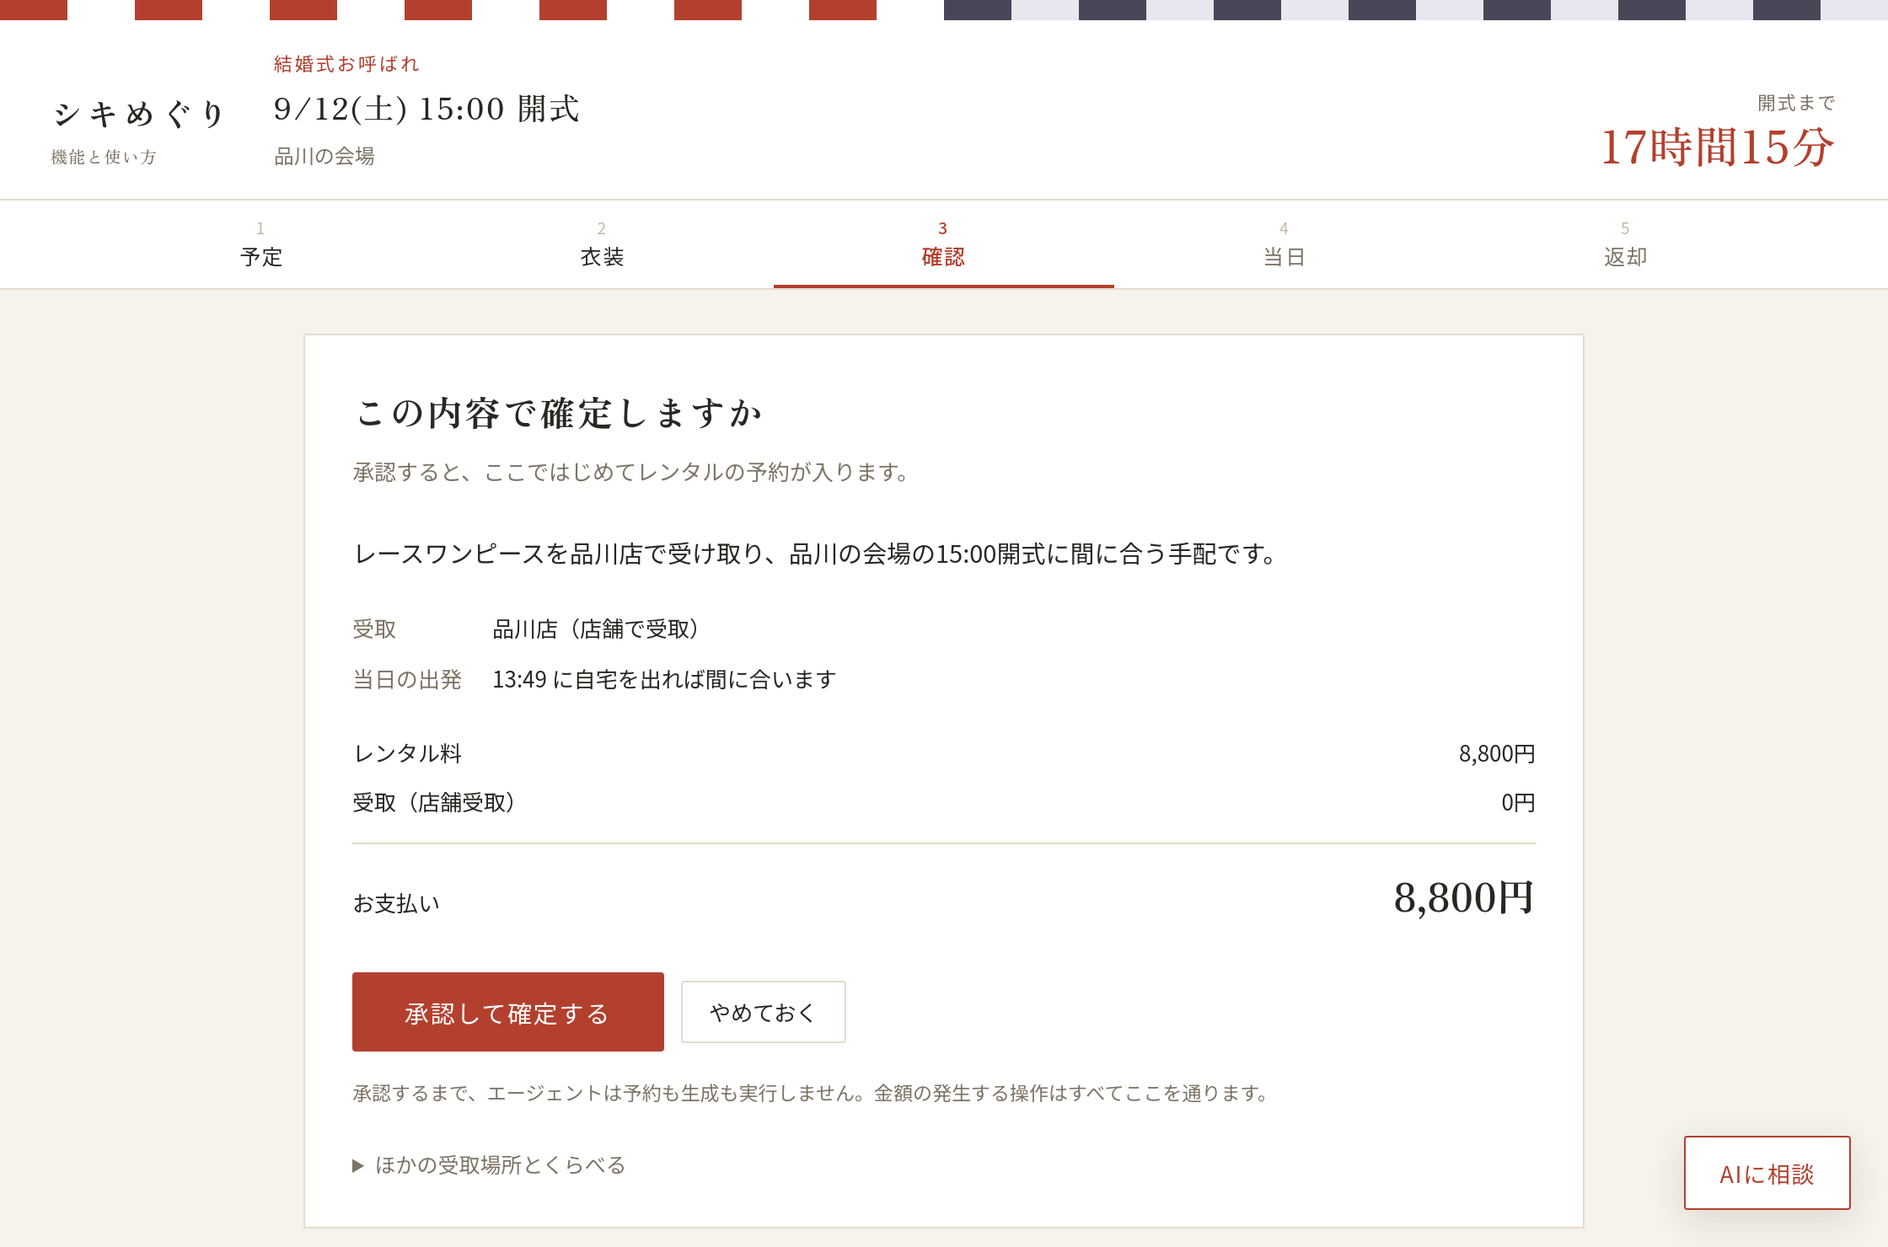
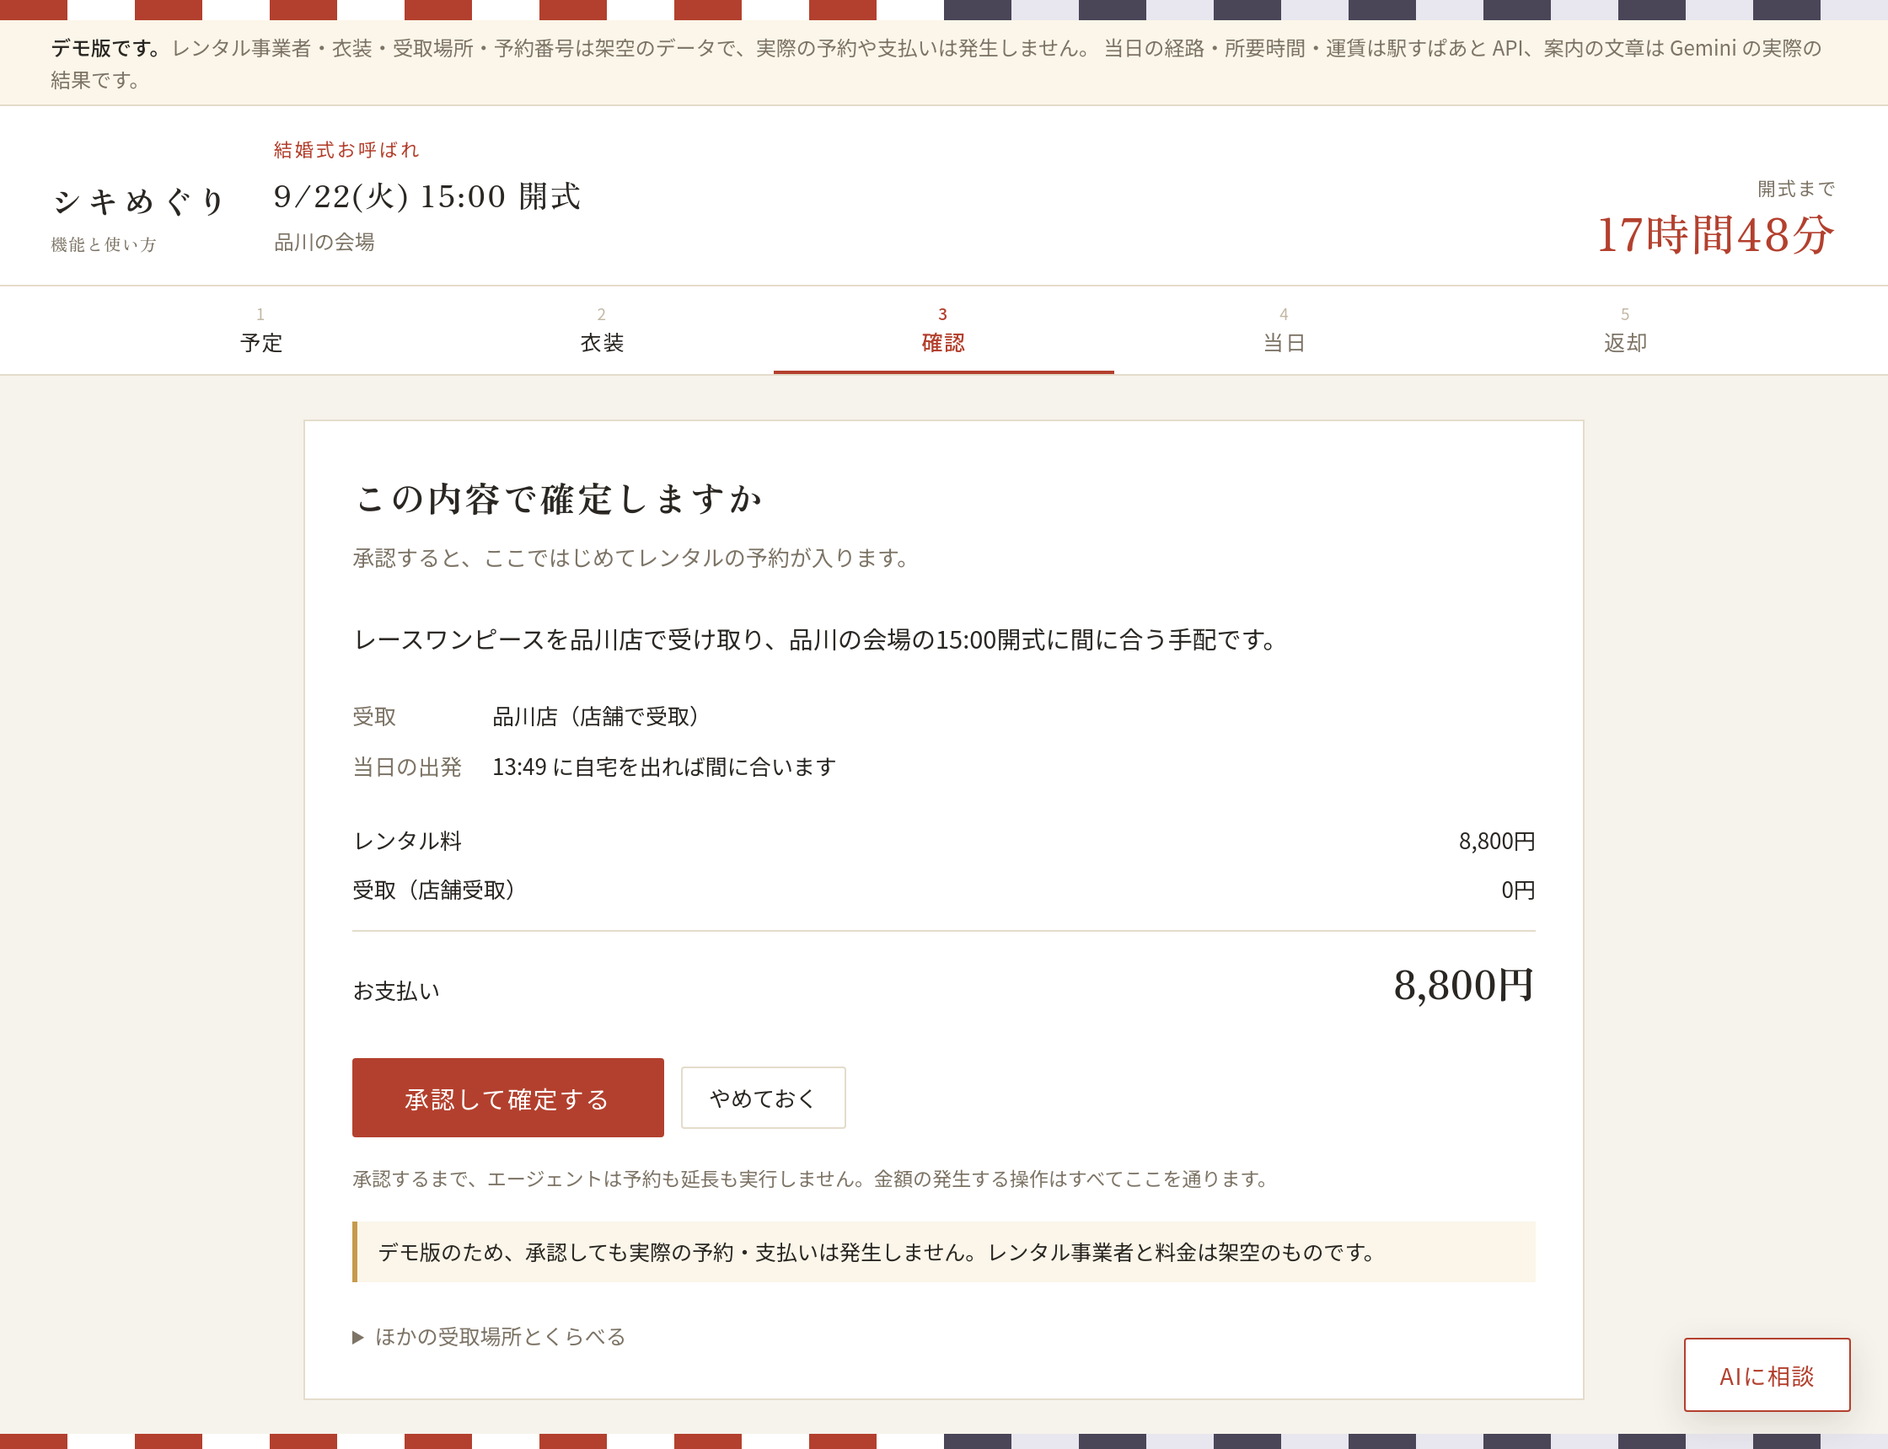
docs: CONTRIBUTING.md と README.md の内容を明確化し、デモ版の注意書きを追加

diff --git a/web/index.html b/web/index.html
@@ -53,6 +53,13 @@ h1 .kei{color:var(--kei)}
   background:var(--kei);color:#fff;transition:opacity .18s;
 }
 .cta:hover{opacity:.86}
+/* デモの断り。アプリを開く前に読める位置に置く。 */
+.demo{
+  max-width:620px;margin:22px auto 0;padding:12px 18px;text-align:left;
+  background:#fbf6e9;border:1px solid var(--line);border-left:4px solid var(--kin);
+  font-size:.82rem;line-height:1.85;color:var(--sub);
+}
+.demo b{color:var(--sumi);font-weight:500}
 
 section{padding:52px 0;border-top:1px solid var(--line)}
 h2{font-family:var(--mincho);font-size:1.5rem;font-weight:700;letter-spacing:.16em;margin-bottom:10px;display:flex;align-items:center;gap:14px}
@@ -109,6 +116,12 @@ footer{padding:40px 0;text-align:center;border-top:1px solid var(--line);color:v
   <div class="cta-row">
     <a class="cta" href="./console.html">アプリを開く</a>
   </div>
+
+  <p class="demo" role="note">
+    <b>デモ版です。</b>レンタル事業者・衣装・受取場所・予約番号は架空のデータで、
+    実際の予約や支払いは発生しません。<br />
+    当日の経路・所要時間・運賃は駅すぱあと API、案内の文章は Gemini による実際の結果です。
+  </p>
 </div></header>
 
 <section id="trouble"><div class="wrap">
@@ -147,42 +160,43 @@ footer{padding:40px 0;text-align:center;border-top:1px solid var(--line);color:v
     <div class="step"><div>
       <h3>式の予定を入れる</h3>
       <p>種別・日時・会場の最寄り駅・出発する駅を選びます。誰の式かは訊かれません。</p>
-      <div class="shot"><img src="./shots/01-plan.png" width="1120" height="1010" loading="lazy"
+      <div class="shot"><img src="./shots/01-plan.png" width="1120" height="1060" loading="lazy"
         alt="式の予定を入力するフォーム。式の種別、開式の日時、会場の最寄り駅、出発する駅を選ぶ" /></div>
     </div></div>
 
     <div class="step"><div>
       <h3>内容を確かめる</h3>
       <p>ここを間違えると当日の逆算がまるごとずれます。登録する前に一度見せます。</p>
-      <div class="shot"><img src="./shots/02-check.png" width="1120" height="640" loading="lazy"
+      <div class="shot"><img src="./shots/02-check.png" width="1120" height="690" loading="lazy"
         alt="入力した予定の確認画面。種別・開式・会場・出発する駅が並び、この予定で始めるボタンがある" /></div>
     </div></div>
 
     <div class="step"><div>
       <h3>衣装をえらぶ</h3>
       <p>候補が出ます。えらんでも、この時点ではまだ予約は入りません。</p>
-      <div class="shot"><img src="./shots/03-outfit.png" width="1120" height="730" loading="lazy"
+      <div class="shot"><img src="./shots/03-outfit.png" width="1120" height="850" loading="lazy"
         alt="衣装の候補が3件並ぶ画面。名前・色・サイズ・事業者・料金が出ている" /></div>
     </div></div>
 
     <div class="step"><div>
       <h3>金額を確かめて承認する</h3>
-      <p>受取場所と出発時刻、内訳と合計を見て承認します。ここで初めて予約が入ります。承認するまで、エージェントは1円も確定しません。</p>
-      <div class="shot"><img src="./shots/04-confirm.png" width="1120" height="740" loading="lazy"
+      <p>受取場所と出発時刻、内訳と合計を見て承認します。ここで初めて予約が入ります。承認するまで、エージェントは1円も確定しません。
+        （デモ版では、承認しても実際の予約・支払いは発生しません）</p>
+      <div class="shot"><img src="./shots/04-confirm.png" width="1120" height="860" loading="lazy"
         alt="確認画面。受取場所と当日の出発時刻、レンタル料と受取手数料の内訳、合計金額、承認して確定するボタン" /></div>
     </div></div>
 
     <div class="step"><div>
       <h3>当日の流れが決まる</h3>
       <p>開式から逆算した一日が出ます。「いま」の位置が入るので、どこまで進んだかが分かります。</p>
-      <div class="shot"><img src="./shots/05-day.png" width="1120" height="1010" loading="lazy"
+      <div class="shot"><img src="./shots/05-day.png" width="1120" height="1060" loading="lazy"
         alt="当日の流れ。出発から受取・着替え・移動・開式・返却期限までが時刻つきで並ぶ" /></div>
     </div></div>
 
     <div class="step"><div>
       <h3>あとは「AIに相談」から</h3>
       <p>右下のボタンでいつでも開けます。返却期限の注意もここに届きます。</p>
-      <div class="shot"><img src="./shots/06-chat.png" width="1120" height="840" loading="lazy"
+      <div class="shot"><img src="./shots/06-chat.png" width="1120" height="890" loading="lazy"
         alt="右側に開いた「AIに相談」のサイドバー。受付から予約確定までのやりとりが並んでいる" /></div>
     </div></div>
   </div>

diff --git a/web/console.html b/web/console.html
@@ -33,6 +33,13 @@
   .dualband .k{background:repeating-linear-gradient(90deg,var(--kei) 0 40px,#fff 40px 80px)}
   .dualband .c{background:repeating-linear-gradient(90deg,var(--chou) 0 40px,#e8e6ee 40px 80px)}
 
+  /* ---------------------------------------------------------- デモの断り */
+  /* どの画面にいても目に入るように、見出しの上に常に出す。 */
+  .demo-note{background:#fbf6e9;border-bottom:1px solid var(--line);padding:6px 24px;font-size:12px;color:var(--muted);line-height:1.6}
+  .demo-note .inner{max-width:1060px;margin:0 auto}
+  .demo-note b{color:var(--text);font-weight:500}
+  .demo-gate{margin-top:14px;padding:8px 12px;background:#fbf6e9;border-left:3px solid var(--kin);font-size:12.5px;line-height:1.6}
+
   /* ---------------------------------------------------------- 式の見出し */
   .masthead{background:var(--panel);border-bottom:1px solid var(--line);padding:15px 24px}
   .masthead .inner{max-width:1060px;margin:0 auto;display:flex;align-items:flex-end;gap:24px;flex-wrap:wrap}
@@ -242,6 +249,11 @@
 </head>
 <body>
 <div class="dualband"><div class="k"></div><div class="c"></div></div>
+
+<div class="demo-note" role="note"><div class="inner">
+  <b>デモ版です。</b>レンタル事業者・衣装・受取場所・予約番号は架空のデータで、実際の予約や支払いは発生しません。
+  当日の経路・所要時間・運賃は駅すぱあと API、案内の文章は Gemini の実際の結果です。
+</div></div>
 
 <div class="masthead"><div class="inner">
   <a class="home" href="./index.html">シキめぐり<small>機能と使い方</small></a>
@@ -617,7 +629,8 @@ async function renderConfirm(el) {
       <button class="btn primary big" id="approve">承認して確定する</button>
       <button class="btn" id="reject">やめておく</button>
     </div>
-    <div class="gate-note">承認するまで、エージェントは予約も生成も実行しません。金額の発生する操作はすべてここを通ります。</div>
+    <div class="gate-note">承認するまで、エージェントは予約も延長も実行しません。金額の発生する操作はすべてここを通ります。</div>
+    <div class="demo-gate">デモ版のため、承認しても実際の予約・支払いは発生しません。レンタル事業者と料金は架空のものです。</div>
     ${c.action === "reserve" ? `<details class="compare"><summary>ほかの受取場所とくらべる</summary>
       <div id="compare" style="margin-top:12px" class="muted">読み込んでいます…</div></details>` : ""}`;
   $("approve").addEventListener("click", () => decide(c.consent_id, true));

diff --git a/docs/shots.js b/docs/shots.js
@@ -65,29 +65,29 @@ async function main() {
   await page.goto(`${BASE}/ui/console.html`, { waitUntil: "networkidle0" });
   await waitFor("式の予定");
   if (await page.$("#stage form")) {
-    await shot("01-plan", 1010);
+    await shot("01-plan", 1060);
     await click("#intake-form button[type=submit]");
     await waitFor("この予定で進めますか");
-    await shot("02-check", 640);
+    await shot("02-check", 690);
     await click("#intake-go");
   } else {
     throw new Error("入力フォームが出なかった。予定の登録前の画面から撮る必要がある。");
   }
 
   await waitFor("衣装をえらぶ");
-  await shot("03-outfit", 730);
+  await shot("03-outfit", 850);
 
   await click("#stage button[data-outfit]");
   await waitFor("この内容で確定しますか");
-  await shot("04-confirm", 740);
+  await shot("04-confirm", 860);
 
   await click("#approve");
   await waitFor("当日の流れ");
-  await shot("05-day", 1010);
+  await shot("05-day", 1060);
 
   await click("#talk-open");
   await sleep(900);
-  await shot("06-chat", 840);
+  await shot("06-chat", 890);
 
   await browser.close();
 }

diff --git a/README.md b/README.md
@@ -1,122 +1,56 @@
 # シキめぐり
 
-冠婚葬祭レンタル × 移動エージェント。
+冠婚葬祭レンタル × 移動エージェントです。
 
 衣装レンタルの「借りるまで」しかなかった体験を、**衣装選び → 受取地最適化 → 当日の逆算動線 → 返却**まで
-一気通貫でエージェントが仕切る。金銭が動く操作だけは必ず本人の同意ゲートを通す。
-
-- 開発手順・コードの決まりごと → [CONTRIBUTING.md](CONTRIBUTING.md)
+一気通貫でエージェントが仕切ります。
 
 ## 画面の流れ
 
-予定を入れてから当日を迎えるまでの、実際の画面。
+予定を入れてから当日を迎えるまでの、実際の画面です。
 
 ### 1. 式の予定を入れる
 
-種別・日時・会場の最寄り駅・出発する駅を選ぶ。誰の式かは訊かない。
+種別・日時・会場の最寄り駅・出発する駅を選びます。誰の式かは訊きません。
 
 ![式の予定を入力するフォーム。式の種別、開式の日時、会場の最寄り駅、出発する駅を選ぶ](web/shots/01-plan.png)
 
 ### 2. 内容を確かめる
 
-ここを間違えると当日の逆算がまるごとずれるので、登録する前に一度見せる。
+登録する前に一度見せます。
 
 ![入力した予定の確認画面。種別・開式・会場・出発する駅が並び、この予定で始めるボタンがある](web/shots/02-check.png)
 
 ### 3. 衣装をえらぶ
 
-式の区分に合う候補を、費用の安い順に並べる。えらんでも、この時点ではまだ予約は入らない。
+式の区分に合う候補を、費用の安い順に並べます。えらんでも、この時点ではまだ予約は入りません。
 
 ![衣装の候補が3件並ぶ画面。名前・色・サイズ・事業者・料金が出ている](web/shots/03-outfit.png)
 
 ### 4. 金額を確かめて承認する
 
-受取場所と出発時刻、内訳と合計を見て承認する。ここで初めて予約が入る。承認するまで、エージェントは 1 円も確定しない。
+受取場所と出発時刻、内訳と合計を見て承認します。ここで初めて予約が入ります。
+（デモ版ではレンタル事業者は架空です）
 
 ![確認画面。受取場所と当日の出発時刻、レンタル料と受取手数料の内訳、合計金額、承認して確定するボタン](web/shots/04-confirm.png)
 
 ### 5. 当日の流れが決まる
 
-開式から逆算した一日が出る。「いま」の位置が入るので、どこまで進んだかが分かる。
+開式から逆算した一日が出ます。「いま」の位置が入るので、どこまで進んだかが分かります。
 
 ![当日の流れ。出発から受取・着替え・移動・開式・返却期限までが時刻つきで並ぶ](web/shots/05-day.png)
 
 ### 6. あとは「AIに相談」から
 
-右下のボタンでいつでも開ける。返却期限の注意もここに届く。
+右下のボタンでいつでも開けます。返却期限の注意もここに届きます。
 
 ![右側に開いた「AIに相談」のサイドバー。受付から予約確定までのやりとりが並んでいる](web/shots/06-chat.png)
-
-画像は `docs/shots.js` が実際に画面を操作して撮っている（撮り直しの手順は [CONTRIBUTING.md](CONTRIBUTING.md)）。
-
-## 動かす
-
-APIキーは不要。未設定のうちは全ての外部サービスが mock で動き、一連の流れが最後まで通る。
-データは同梱の Firestore エミュレータに入るので、GCP に繋がなくてよい。
-
-```bash
-docker compose up api
-```
-
-ブラウザで <http://localhost:8080/ui/> を開くと、機能と使い方をまとめたトップページが出る。
-「アプリを開く」からアプリ（<http://localhost:8080/ui/console.html>）へ入り、
-最初の画面はフォームだけ。式の予定を入れて内容を確かめると登録され、
-そこから先は一本道で進む。
-
-画面は**いま利用者がすることを一つだけ**出す。段階が進むと自動で次に切り替わり、
-過去の段階は上の帯から見に戻れる。
-
-| 段階 | 画面に出るもの |
-|---|---|
-| 1 予定 | 種別・日時・会場の最寄り駅・出発する駅をフォームで入れ、内容を確かめてから登録する。登録後は入力欄が消え、登録した予定の控えになる |
-| 2 衣装 | 候補だけを並べる。えらんでもまだ予約は入らない |
-| 3 確認 | 受取場所・出発時刻・内訳・合計と、承認／やめておく |
-| 4 当日 | 開式から逆算した一日の流れ。「いま」の位置が入る |
-| 5 返却 | 期限・返し方・返す場所と、返却の記録 |
-
-見出しには常に**開式までの残り時間**（式のあとは返却期限まで）が出る。
-
-相談欄は予定を登録するまで出さない。登録が済むと右下に「AIに相談」が現れ、押すとサイドバーで開く
-（ここからも「1番でお願いします」「承認します」のように進められる）。返却期限の警告など
-エージェント起点の通知は、畳んでいる間もトーストとボタンの件数で届く。
-監査ログは画面には出さず、`GET /audit` で取る。
 
 ## アーキテクチャ
 
 ![アーキテクチャ図](docs/architecture.png)
 
-チャットは外部メッセージング基盤を使わず自前で持つため、慶弔という繊細な情報が
-第三者のサーバーを経由しない。**通知もアプリ内で完結する**（設計判断）。返却期限の警告など
-エージェント起点の発言は、利用者の操作を待たずに画面へ届く。
-端末へのプッシュ（Web Push / OS 通知）は対象外。
-
-定期実行（Cloud Scheduler）が返却期限の監視と TTL 超過の削除をまとめて回す。
-
-## エージェントの自律性
-
-エージェントの自律性の境界は、コードの分かれ方と一致している。
-
-| エージェント | 自律性 | 実装 |
-|---|---|---|
-| 衣装 | 提案まで | `agents/outfit.py` |
-| 手配 | **金銭確定は本人同意必須** | `agents/arrange.py`（`propose` と `decide` が分離） |
-| 動線 | 逆算タイムラインの生成 | `agents/route.py` |
-| 返却監視 | 提案まで | `agents/monitor.py` |
-
-## ガバナンス
-
-1. **画像を扱わない** — 顔写真も全身写真も受け取らない。保持するフィールドが型として存在しない
-2. **慶弔情報の最小化** — 「誰の式か」「誰が亡くなったか」を保持するフィールドがそもそも存在しない。日時・会場・服装区分だけで全機能が成立する（テストで検証）
-3. **同意ゲート** — 金銭が動く操作は、金額にかかわらず本人の承認を通す。エージェントが自分で確定する経路を持たない
-4. **TTL** — `events` は式終了 + 7 日で削除。監査ログは追記専用で独立して残る
-5. **プロンプトインジェクション対策** — 利用者の入力が Gemini に届いても、手配は乗っ取られない
-   - 金額と承認を求める文面は Gemini に書かせず、コードで組み立てる。金額・承認の可否はそもそもコードが決めている
-   - Gemini への指示は system に置き、材料（利用者の入力を含みうる）は区切りの中に JSON で入れる。区切りを閉じる文字と改行は落とす
-   - 出てきた文面は検査してから使う。URL を含む・長すぎる・**材料にない数字を書いた**ものは捨てて定型文に落とす
-   - 入口でも絞る。駅はどの API でも選択肢の一覧にあるものだけ、会場名は 40 文字まで・改行なし
-   - 実際に指示を混ぜた材料で Gemini を呼び、従わないことを確かめた。上の性質はテストで固定している（`tests/test_injection.py`）
-
 ## MVP で未実装のもの
 
-- 実レンタル事業者連携（`app/adapters/rental.py` はモック固定）
-- 成人式・葬儀ユースケースの作り込み（データモデル・受取制約は実装済み、UI は共通）
+- 実レンタル事業者連携（`app/adapters/rental.py` はモック固定です）
+- 成人式・葬儀ユースケースの作り込み（データモデルと受取の制約は実装済みで、UI は共通です）
